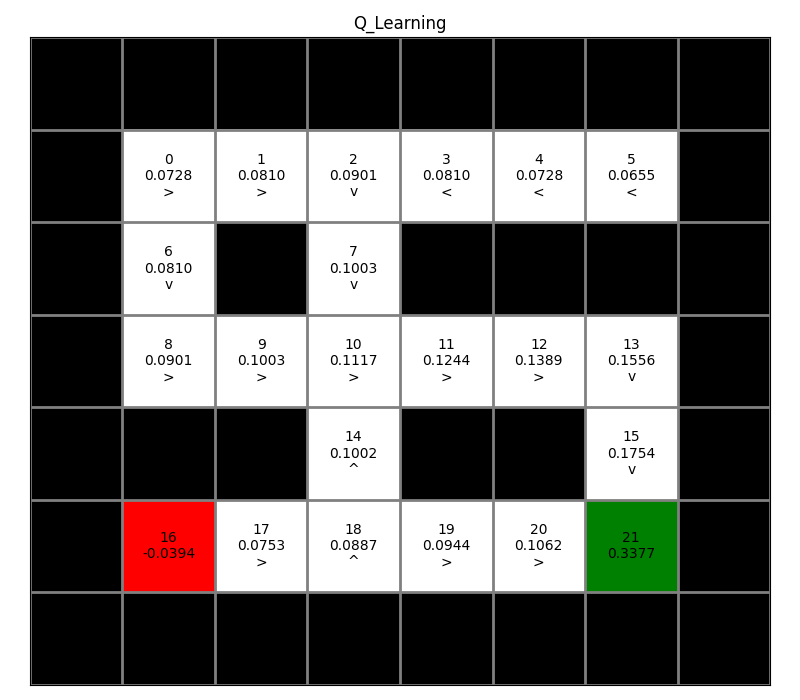
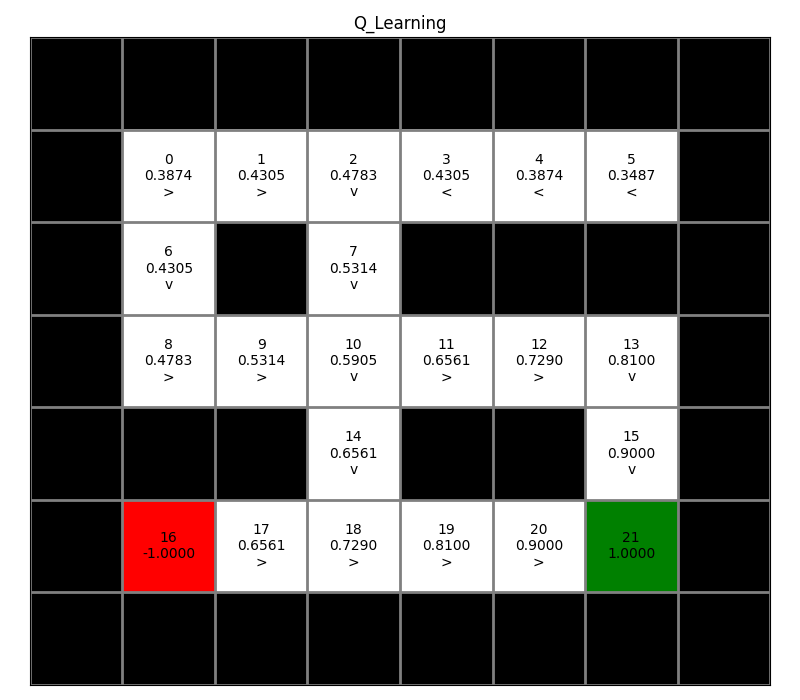
not yet q learning

diff --git a/hw2/algorithms.py b/hw2/algorithms.py
@@ -422,7 +422,7 @@ class Q_Learning(ModelFreeControl):
         # self.buffer = tmp
 
         # .. or discard everything
-        self.buffer.clear()
+        # self.buffer.clear()
         
         return random_samples
 
@@ -434,6 +434,11 @@ class Q_Learning(ModelFreeControl):
 
         self.q_values[s, a] += self.lr * \
             (r + self.discount_factor * q2 * (1 - is_done) - self.q_values[s, a])
+        
+        # epsilon-greedy policy improvement (only affect (s, a))
+        self.policy[s] = np.ones(self.action_space) * self.epsilon / self.action_space
+        argmax_a = np.argmax(self.q_values[s])
+        self.policy[s, argmax_a] += (1 - self.epsilon)
 
     def run(self, max_episode=1000) -> None:
         """Run the algorithm until convergence."""
@@ -469,8 +474,6 @@ class Q_Learning(ModelFreeControl):
             # restart
             iter_episode += 1
             is_done = False
-            self.transition_count = 0
-            self.buffer.clear()
 
             if (iter_episode % 1000 == 0):
                 print(iter_episode)

diff --git a/hw2/main.py b/hw2/main.py
@@ -210,11 +210,11 @@ def run_Q_Learning(grid_world: GridWorld, iter_num: int):
 
 if __name__ == "__main__":
     seed = 1
-    grid_world = init_grid_world("maze.txt",INIT_POS)
+    # grid_world = init_grid_world("maze.txt",INIT_POS)
     # 2-1
-    run_MC_prediction(grid_world,seed)
-    run_TD_prediction(grid_world,seed)
-    run_NstepTD_prediction(grid_world,seed)
+    # run_MC_prediction(grid_world,seed)
+    # run_TD_prediction(grid_world,seed)
+    # run_NstepTD_prediction(grid_world,seed)
 
     # 2-2
     grid_world = init_grid_world("maze.txt")

diff --git a/hw2/test.py b/hw2/test.py
@@ -2,8 +2,7 @@ from collections import deque
 import numpy as np
 
 # assume 2 states, 3 actions
-b = np.array([1,2,3])
-c = np.array([4,5,6])
-a = [b, c]
+rng = np.random.default_rng(seed=1)
+idx = rng.choice(5, 3, replace=False)
 
-print(np.stack(a))
+print(idx)
